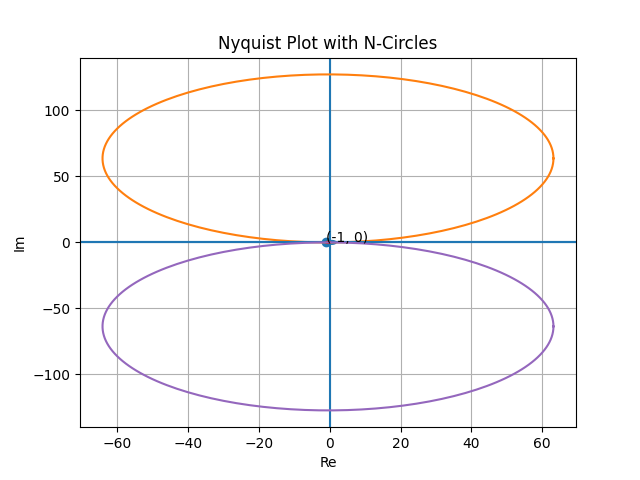
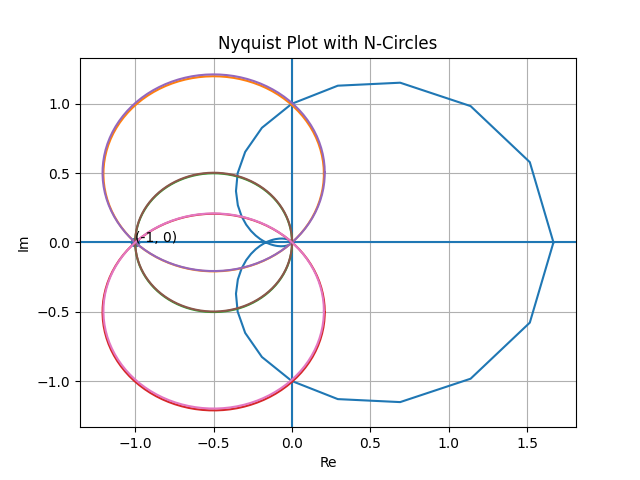
Refined the Nyquist Plot with n-circles such that the n levels generation function doesn't generate useless near-zero phase contours.

diff --git a/python/plotting/plot_nyquist_analysis.py b/python/plotting/plot_nyquist_analysis.py
@@ -277,12 +277,16 @@ def get_n_range(n_values):
   return min_n, max_n
 
 # Generate the n levels
-def generate_n_levels(min_n, max_n, num_levels):
+def generate_n_levels(min_n, max_n, num_levels, min_abs_phase):
+  # Validate the inputs
   if num_levels < 2:
     raise ValueError("The number of levels must be at least 2.")
 
   if max_n <= min_n:
     raise ValueError("The max of n must be greater than the min of n.")
+
+  if min_abs_phase < 0:
+    raise ValueError("The minimum absolute value phase must be at least 0 or above.")
 
   # Calculate the spacing between min and max n
   linear_step = (max_n - min_n) / (num_levels - 1)
@@ -291,7 +295,17 @@ def generate_n_levels(min_n, max_n, num_levels):
   # Iterate num_levels times to calculate the N value representing that level
   for i in range(num_levels):
     N = min_n + i * linear_step
+    N_radians = math.radians(N)
+
+    # Skip phase levels too close to 0 degrees
+    if abs(math.sin(N_radians)) < math.sin(math.radians(min_abs_phase)):
+      continue
+
     n_levels.append(N)
+
+  # Check that n_levels aren't empty
+  if len(n_levels) == 0:
+    raise ValueError("There are no n_levels generated.")
 
   return n_levels
 
@@ -715,8 +729,13 @@ def main():
   n_levels = generate_n_levels(
     min_n,
     max_n,
-    5
+    9,
+    10.0
   )
+
+  # For debugging purposes
+  print("N range:", min_n, max_n)
+  print("Generated N levels:", n_levels)
 
   # ----- Figure 1: Zoomed Nyquist analysis -----
   plt.figure()
